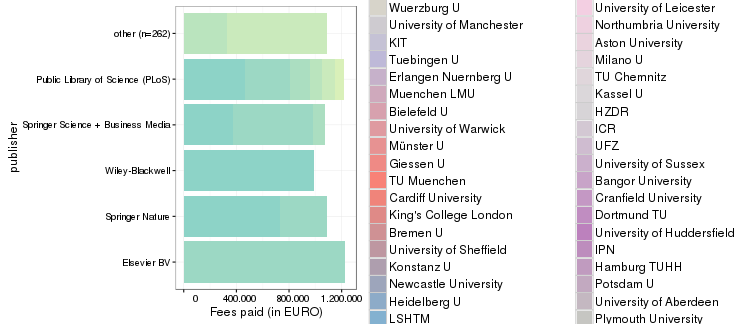
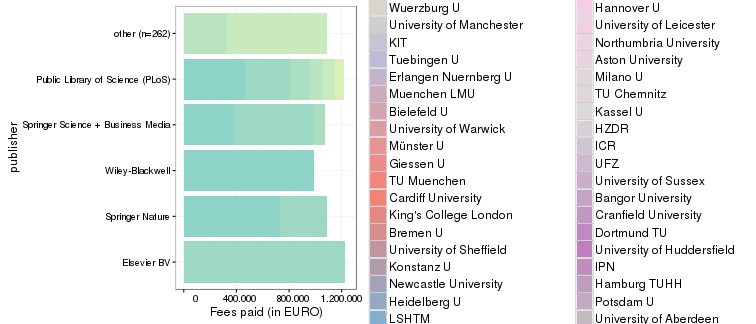
post: jgu mainz joins openapc

diff --git a/about.md b/about.md
@@ -26,6 +26,7 @@ So far, the following German universities have agreed to share information on pa
 - [Leipzig University](https://www.ub.uni-leipzig.de/open-access/publikationsfonds/)
 - [Ludwig-Maximilians-Universität München](http://www.en.ub.uni-muenchen.de/writing/open-access-publishing/funding/index.html)
 - [Münster University](https://www.uni-muenster.de/Publizieren/service/publikationsfonds/)
+- [JGU Mainz](https://www.openaccess.uni-mainz.de/publikationsfonds-der-jgu/)
 - [JLU Giessen](https://www.uni-giessen.de/ub/en/digitales-publizieren-en/openaccess-en/oajlu-en?set_language=en)
 - [KIT Karlsruhe](http://www.bibliothek.kit.edu/cms/kit-publikationsfonds.php)
 - [Ruhr Universität Bochum](http://www.ruhr-uni-bochum.de/oa/)
@@ -143,13 +144,13 @@ Jisc Collections released data on APC payments made by UK higher education insti
 
 Information on both open access journal articles and open access publication of articles in toll-access journals ("hybrid") are provided.
 
-In total,  55 028 017 € for  29 561 articles were paid by the participating unviversities. Average  fee is 1 861.5 € and the median 1 661 €.
+In total,  55 150 250 € for  29 637 articles were paid by the participating unviversities. Average  fee is 1 860.9 € and the median 1 661 €.
 
 ### Open Access Journals
 
 
 
-At the moment, the dataset releases information on 16 884 articles in open access journals which charge publication fees. Total expenditure amounts to  23 655 203 €. Average  fee is 1 401 € and the median 1 311 €.
+At the moment, the dataset releases information on 16 960 articles in open access journals which charge publication fees. Total expenditure amounts to  23 777 436 €. Average  fee is 1 402 € and the median 1 312 €.
 
 View dataset on [GitHub](https://github.com/OpenAPC/openapc-de/blob/master/data/apc_de.csv).
 
@@ -185,6 +186,7 @@ View dataset on [GitHub](https://github.com/OpenAPC/openapc-de/blob/master/data/
 |Imperial College London                     |      375|           757,675|         2,020|  1,655|
 |INM - Leibniz-Institut für Neue Materialien |        5|             5,744|         1,149|  1,305|
 |IPN                                         |        4|             3,909|           977|    479|
+|JGU Mainz                                   |       76|           122,233|         1,608|  1,610|
 |Kassel U                                    |       55|            59,511|         1,082|  1,129|
 |King's College London                       |       61|           126,369|         2,072|  1,642|
 |KIT                                         |      425|           521,166|         1,226|  1,242|
@@ -394,7 +396,7 @@ For data enrichment, sample visualisations and explorations we build on the work
 
 ## Contributors
 
-Benjamin Ahlborn, Chelsea Ambler, Magdalena Andrae, Jochen Apel, Hans-Georg Becker, Roland Bertelmann, Daniel Beucke, Peter Blume, Ute Blumtritt, Kim Braun, Christoph Broschinski, Dorothea Busjahn, Pablo de Castro, Amanda Cullin, Gernot Deinzer, Julia Dickel, Andrea Dorner, Clemens Engelhardt, Inken Feldsien-Sudhaus, Fabian Franke, Claudia Frick, Agnes Geißelmann, Kai Karin Geschuhn, Uli Hahn, Kristina Hanig, Dominik Hell, Ulrich Herb, Ute Holzwarth, Christie Hurrell, Doris Jaeger, Najko Jahn, Alexandra Jobmann, Andreas Kennecke, Robert Kiley, Stephanie Kroiss, Gerrit Kuehle, Stuart Lawson, Kathrin Lucht-Roussel, Frank Lützenkirchen, Anna Marini, Anja Oberländer, Vitali Peil, Dirk Pieper, Tobias Pohlmann, Markus Putnings, Annette Scheiner, Michael Schlachter, Birgit Schlegel, Adriana Sikora, Edith Reschke, Katharina Rieck, Florian Ruckelshausen, Ilka Rudolf, Marco Tullney, Astrid Vieler, Viola Voß, Marco Winkler, Sabine Witt, Philip Young
+Benjamin Ahlborn, Chelsea Ambler, Magdalena Andrae, Jochen Apel, Hans-Georg Becker, Roland Bertelmann, Daniel Beucke, Peter Blume, Ute Blumtritt, Kim Braun, Christoph Broschinski, Dorothea Busjahn, Pablo de Castro, Amanda Cullin, Gernot Deinzer, Julia Dickel, Andrea Dorner, Karin Eckert, Clemens Engelhardt, Inken Feldsien-Sudhaus, Fabian Franke, Claudia Frick, Agnes Geißelmann, Kai Karin Geschuhn, Uli Hahn, Kristina Hanig, Dominik Hell, Ulrich Herb, Ute Holzwarth, Christie Hurrell, Doris Jaeger, Najko Jahn, Alexandra Jobmann, Andreas Kennecke, Robert Kiley, Stephanie Kroiss, Gerrit Kuehle, Stuart Lawson, Kathrin Lucht-Roussel, Frank Lützenkirchen, Anna Marini, Anja Oberländer, Vitali Peil, Dirk Pieper, Tobias Pohlmann, Markus Putnings, Annette Scheiner, Michael Schlachter, Birgit Schlegel, Adriana Sikora, Edith Reschke, Katharina Rieck, Florian Ruckelshausen, Ilka Rudolf, Marco Tullney, Astrid Vieler, Viola Voß, Marco Winkler, Sabine Witt, Philip Young
 
 ## Contact
 

diff --git a/_posts/2017-03-17-mainz.md b/_posts/2017-03-17-mainz.md
@@ -1,0 +1,58 @@
+---
+layout:     post
+author:     Christoph Broschinski
+author_lnk: https://github.com/cbroschinski
+title:      JGU Mainz joins OpenAPC
+date:       2017-03-17 07:00:00
+summary:    
+categories: [general, openAPC]
+comments: true
+---
+
+
+
+We welcome the [Johannes Gutenberg University of Mainz](https://www.uni-mainz.de/eng/) (JGU) as new contributing institution!
+[Mainz University Library](https://www.ub.uni-mainz.de/) is in charge of the institution's [Open Access Publication Funds](https://www.openaccess.uni-mainz.de/publikationsfonds-der-jgu/),
+which is supported by the Deutsche Forschungsgemeinschaft (DFG) under its [Open-Access Publishing Programme](http://www.dfg.de/en/research_funding/programmes/infrastructure/lis/funding_opportunities/open_access/).
+
+Contact person is [Karin Eckert](mailto:K.Eckert@ub.uni-mainz.de).
+
+## Cost data
+
+
+
+The initial data covers publication fees for 76 articles. Total expenditure amounts to 122 233€ and the average fee is 1 608€.
+
+The following table and plots show the payments Mainz University Library has made to publishers in 2016.
+
+
+|                                                           | Articles| Fees paid in EURO| Mean Fee paid|
+|:----------------------------------------------------------|--------:|-----------------:|-------------:|
+|Springer Nature                                            |       29|             45235|          1560|
+|Frontiers Media SA                                         |       13|             24903|          1916|
+|Public Library of Science (PLoS)                           |       13|             18524|          1425|
+|Hindawi Publishing Corporation                             |        4|              6456|          1614|
+|Copernicus GmbH                                            |        3|              4641|          1547|
+|Impact Journals, LLC                                       |        2|              4410|          2205|
+|MDPI AG                                                    |        2|              2481|          1241|
+|Oxford University Press (OUP)                              |        2|              4260|          2130|
+|American Association for the Advancement of Science (AAAS) |        1|              1792|          1792|
+|BMJ                                                        |        1|              1900|          1900|
+|Elsevier BV                                                |        1|              1127|          1127|
+|Informa UK Limited                                         |        1|              1600|          1600|
+|International Union of Crystallography (IUCr)              |        1|               110|           110|
+|Optical Society of America (OSA)                           |        1|              2026|          2026|
+|Society for Neuroscience                                   |        1|              1311|          1311|
+|Wiley-Blackwell                                            |        1|              1457|          1457|
+
+### Fees paid per publisher (in EURO)
+
+![plot of chunk tree_mainz_2017_03_17_full](/figure/tree_mainz_2017_03_17_full-1.png)
+
+###  Average costs per year (in EURO)
+
+![plot of chunk box_mainz_2017_03_17_year_full](/figure/box_mainz_2017_03_17_year_full-1.png)
+
+###  Average costs per publisher (in EURO)
+
+![plot of chunk box_mainz_2017_03_17_publisher_full](/figure/box_mainz_2017_03_17_publisher_full-1.png)
